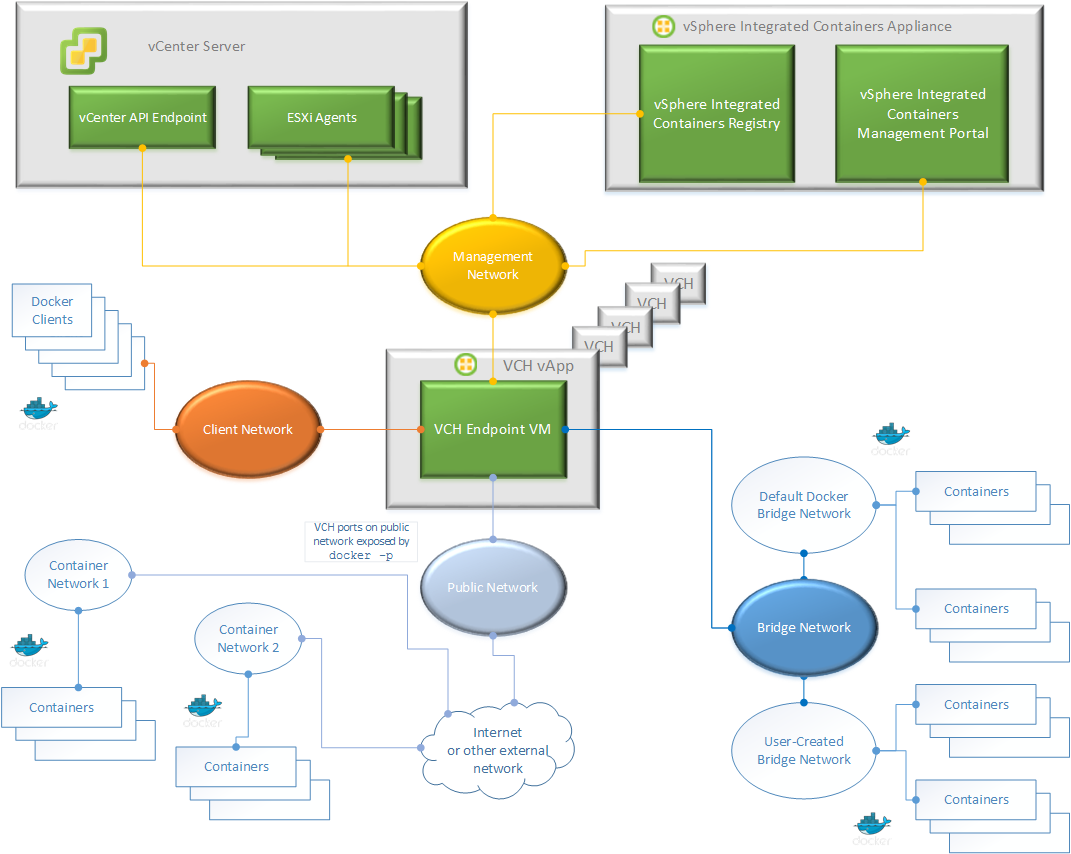
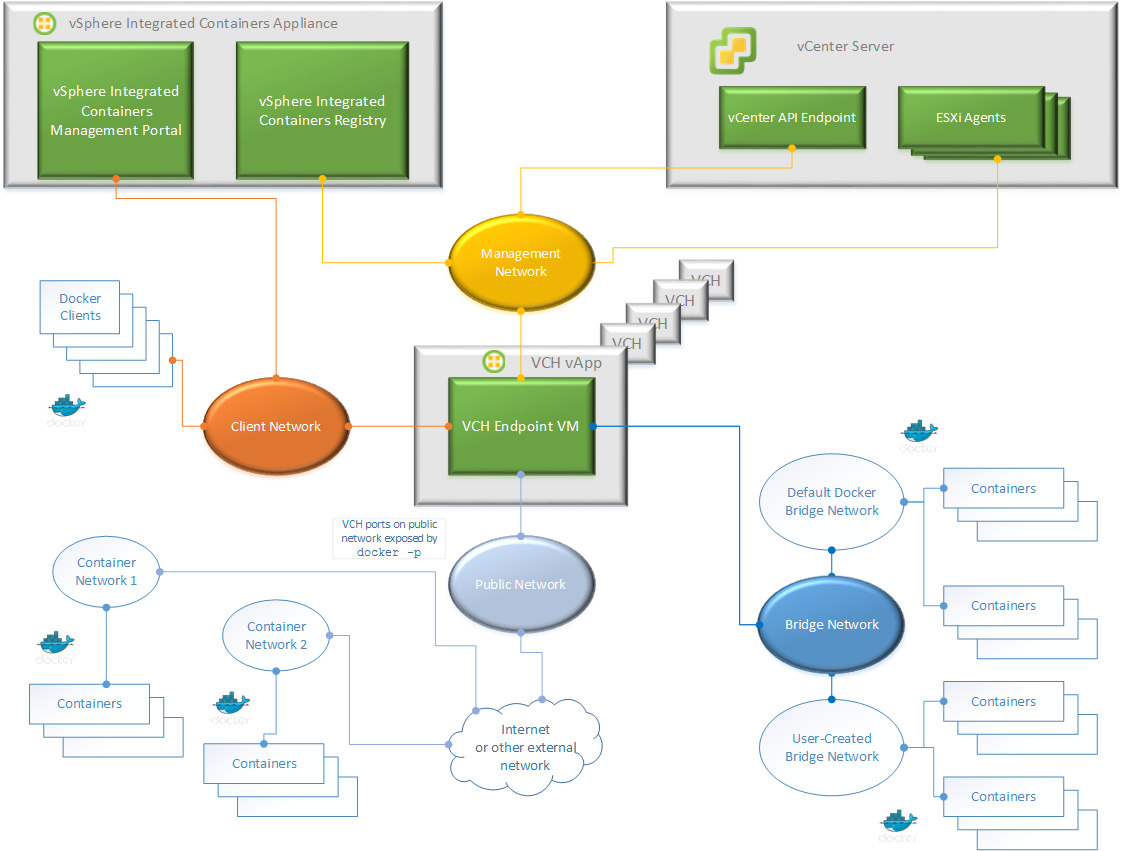
Comments from Mike and Hasan on networking.

diff --git a/docs/user_doc/vic_vsphere_admin/networks.md b/docs/user_doc/vic_vsphere_admin/networks.md
@@ -16,18 +16,18 @@ This topic provides an overview of the different network types that virtual cont
 
 ## High-Level View of VCH Networking {#highlevel}
 
-The image below shows a high-level view of the networks that a VCH uses and how they connect to your vSphere environment and to the Docker environment that container developers use. 
+The image below shows a high-level view of the networks that a VCH uses and how they connect to your vSphere environment, to vSphere Integrated Containers Registry and Management Portal, and to the Docker environment. 
  
  ![VCH Networking](graphics/vic_networking.png)
 
-The following sections describe each of the VCH network types, that are represented in the image by green elipses. The blue shapes represent   Docker objects, and the gray shapes represent vSphere. 
+The following sections describe each of the VCH network types.
 
 **IMPORTANT**: A VCH supports a maximum of 3 distinct network interfaces. The bridge network requires its own port group, at least two of the public, client, and management networks must share a network interface and therefore a port group. Container networks do not go through the VCH, so they are not subject to this limitation. This limitation will be removed in a future release.
 
 
 ## Management Network {#management}
 
-The network for communication between the VCH and vCenter Server, ESXi hosts, vSphere Integrated Containers Registry, and vSphere Integrated Containers Management Portal. The VCH uses this network to provide the `attach` function of the Docker API.
+The network for communication between the VCH, vCenter Server, and ESXi hosts. The VCH uses this network to provide the `attach` function of the Docker API. vSphere Integrated Containers Registry must be able to access VCHs either over the management network or over the public network.
 
 **IMPORTANT**: Because the management network provides access to your vSphere environment, and because container VMs use this network to communicate with the VCH, always use a secure network for the management network. Ideally, use separate networks for the management network and the container networks.
 
@@ -35,14 +35,14 @@ You define the management network by setting the `--management-network` option w
 
 
 ## Public Network  {#public}
-The network that container VMs use to connect to the internet. Ports that containers expose with `docker create -p` when connected to the default bridge network are made available on the public interface of the VCH endpoint VM via network address translation (NAT), so that containers can publish network services.
+The network that container VMs use to connect to the internet. Ports that containers expose with `docker create -p` when connected to the default bridge network are made available on the public interface of the VCH endpoint VM via network address translation (NAT), so that containers can publish network services. vSphere Integrated Containers Registry must be able to access VCHs either over the public network or over the management network.
 
 You define the public network by setting the `--public-network` option when you run `vic-machine create`. For  more detailed information about management networks, see the section on the `--public-network` option in [VCH Deployment Options](vch_installer_options.md#public-network).
 
 
 ## Client Network {#client}
 
-The network on which the VCH endpoint VM makes the Docker API available to Docker clients. The client network isolates the Docker endpoints from the public network.
+The network on which the VCH endpoint VM makes the Docker API available to Docker clients. The client network isolates the Docker endpoints from the public network. vSphere Integrated Containers Registry can access VCHs over the client network, but it is recommended to connect registries either to the public network or to the management network. vSphere Integrated Containers Management Portal requires a connection to the client network. 
 
 You define the Docker management endpoint network by setting the `--client-network` option when you run `vic-machine create`. For  more detailed information about Docker management endpoint networks, see the section on the `--client-network` option in [VCH Deployment Options](vch_installer_options.md#client-network).
 
